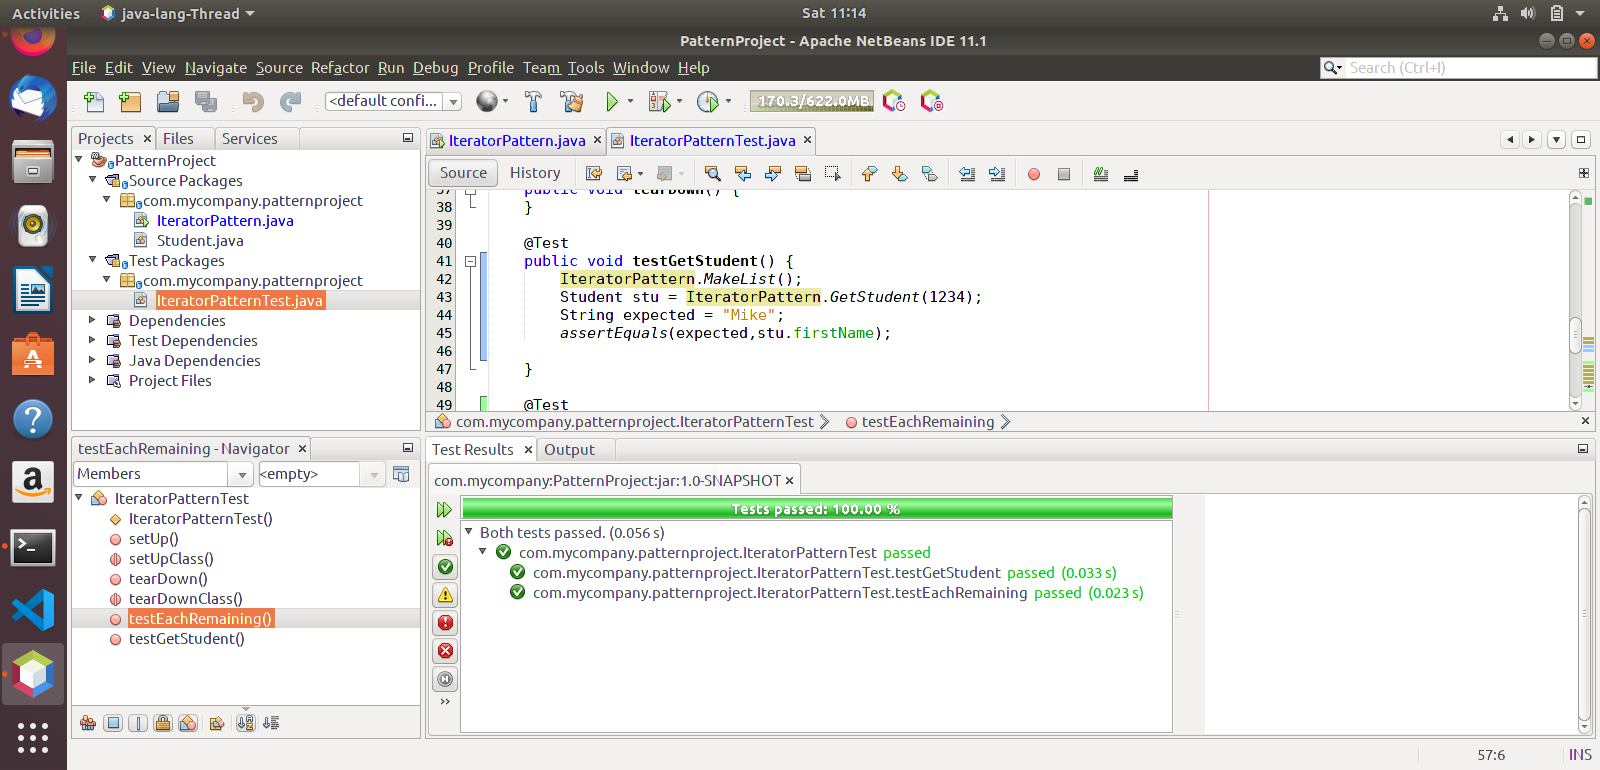
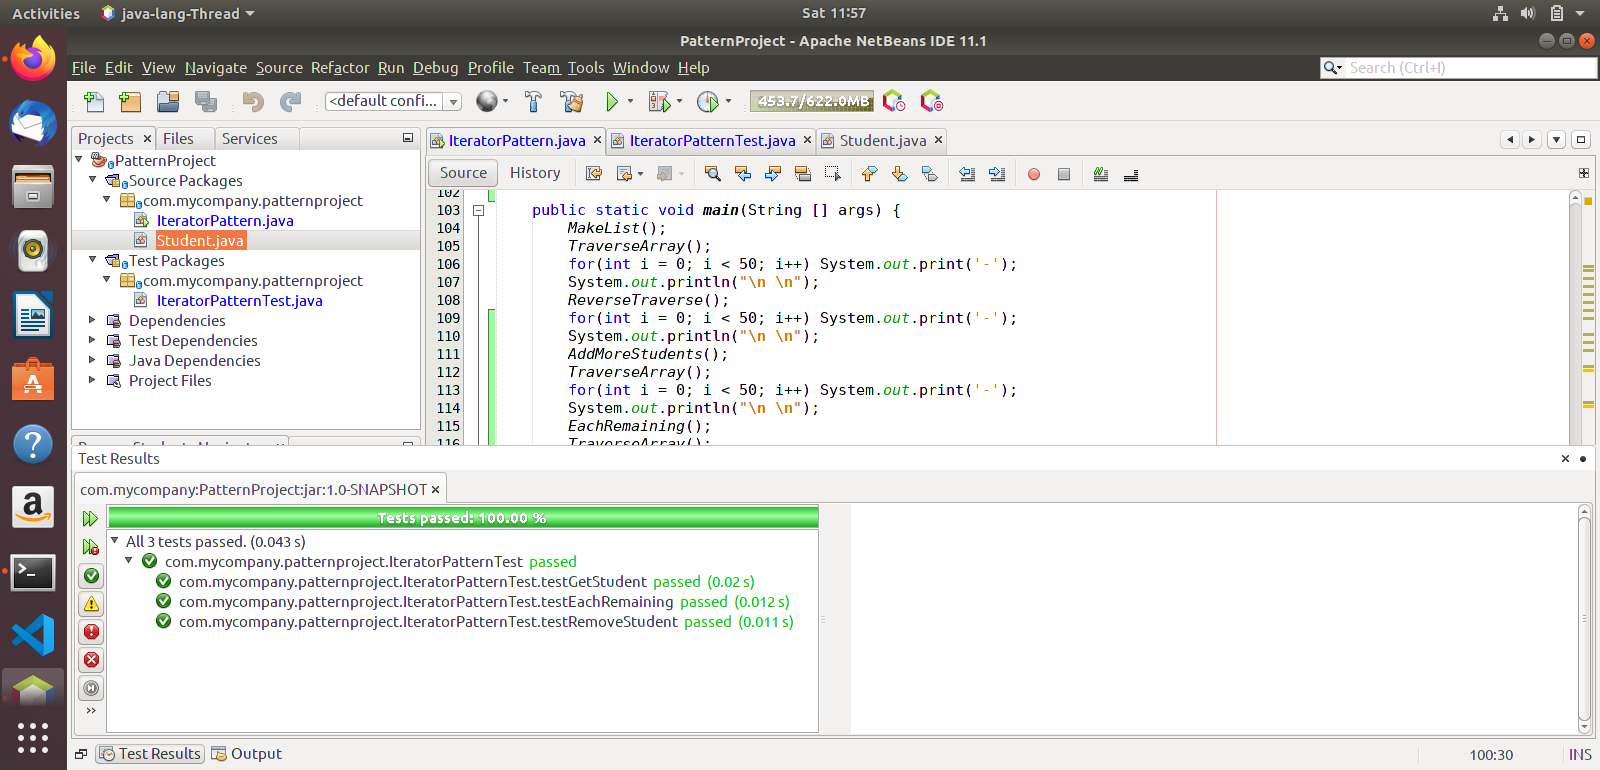
Additional tests and new functions

diff --git a/PatternProject/src/main/java/com/mycompany/patternproject/IteratorPattern.java b/PatternProject/src/main/java/com/mycompany/patternproject/IteratorPattern.java
@@ -86,12 +86,18 @@ public class IteratorPattern {
     
     public static Student GetStudent(int id) {
         Student tempStu = new Student();
+        Student empty = new Student();
         Iterator<Student> stu = students.iterator();
         while(stu.hasNext()) {
             tempStu = stu.next();
-            if(tempStu.id == id) break;
+            if(tempStu.id == id) return tempStu;
         }
-        return tempStu;
+        return empty;
+    }
+    
+    public static void RemoveStudent(int id) {
+        Student tempStu = GetStudent(id);
+        if(tempStu.id != -1) students.remove(tempStu);
     }
     
     public static void main(String [] args) {
@@ -100,5 +106,22 @@ public class IteratorPattern {
         for(int i = 0; i < 50; i++) System.out.print('-');
         System.out.println("\n \n");
         ReverseTraverse();
+        for(int i = 0; i < 50; i++) System.out.print('-');
+        System.out.println("\n \n");
+        AddMoreStudents();
+        TraverseArray();
+        for(int i = 0; i < 50; i++) System.out.print('-');
+        System.out.println("\n \n");
+        EachRemaining();
+        TraverseArray();
+        for(int i = 0; i < 50; i++) System.out.print('-');
+        System.out.println("\n \n");
+        Student tempStu = GetStudent(5678);
+        System.out.println(tempStu.lastName + ", " + tempStu.firstName + " ID no. " 
+                    + tempStu.id + " born in " + tempStu.birthYear);
+        for(int i = 0; i < 50; i++) System.out.print('-');
+        System.out.println("\n \n");
+        RemoveStudent(1234);
+        TraverseArray();
     }
 }

diff --git a/PatternProject/src/test/java/com/mycompany/patternproject/IteratorPatternTest.java b/PatternProject/src/test/java/com/mycompany/patternproject/IteratorPatternTest.java
@@ -55,4 +55,11 @@ public class IteratorPatternTest {
         IteratorPattern.EachRemaining();
         assertEquals(true,IteratorPattern.HasIds());
     }
+    
+    @Test
+    public void testRemoveStudent() {
+        IteratorPattern.MakeList();
+        IteratorPattern.RemoveStudent(1234);
+        assertEquals("NONE",IteratorPattern.GetStudent(1234).firstName);
+    }
 }
